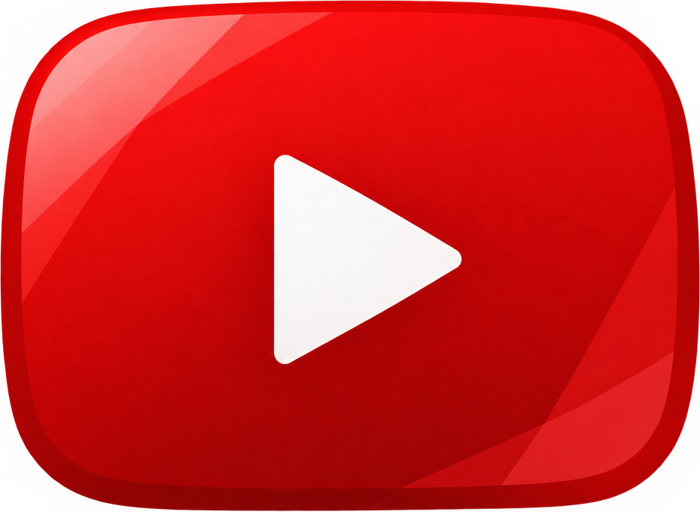
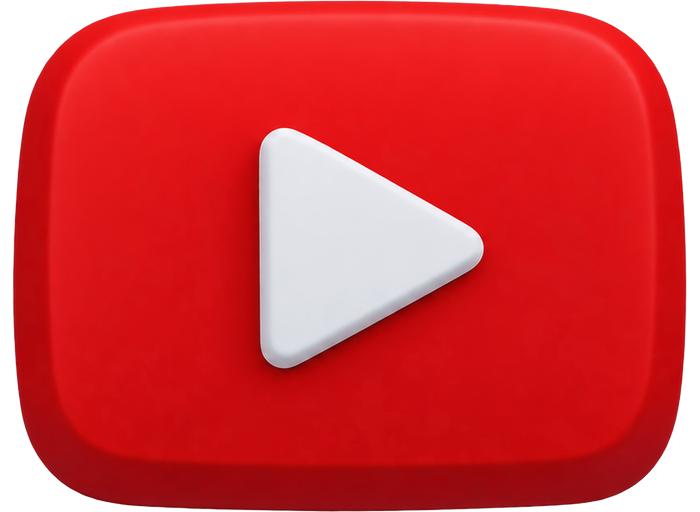
programme: bouton lecture rouge 3D sur la miniature Chaine (memes valeurs et meme taille), illustration Poster plus bas et plus grosse

diff --git a/app/globals.css b/app/globals.css
@@ -1026,3 +1026,6 @@ body::before {
 
 /* yma-poster-agrandi : illustration Poster (module 17) agrandie de 20%, ancree en bas, PC et telephone */
 [data-yma="yma-mini-test"] .yma-mini-img[src$="module-17.png"] { transform: scale(1.2) !important; transform-origin: center bottom !important; }
+
+/* yma-poster-bas-grossi : illustration Poster (module 17) un peu plus bas (+8px) et un peu plus grosse (1.2 -> 1.3), ancree en bas, PC et telephone */
+[data-yma="yma-mini-test"] .yma-mini-img[src$="module-17.png"] { transform: translateY(8px) scale(1.3) !important; transform-origin: center bottom !important; }
